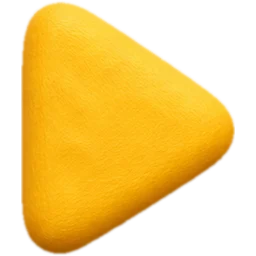
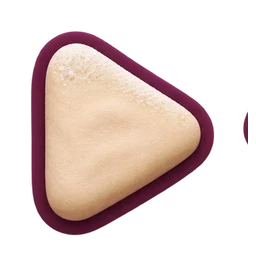
Yeni düğme seti: hap ve yuvarlak düğmeler, simgeler, joker düğmesi, rozet, pencere gövdesi
Claude-Session: https://claude.ai/code/session_013YjY38wA9HkTsRWqx1GxrD

diff --git a/www/sw.js b/www/sw.js
@@ -1,6 +1,6 @@
 // Çevrimdışı: önbellekten anında aç, arkada güncelle (stale-while-revalidate).
 // Yeni dosya eklenince F listesine girer (robot www/ ile listeyi karşılaştırır: tools/hakem.cjs "sw.liste").
-const C = 'hamur-v79', F = ['./', 'index.html', 'style.css', 'i18n.js', 'ses.js', 'olcum.js', 'ads.js', 'shop.js', 'app.js', 'game.js', 'ekran.js', 'acilis.js', 'bolumler.js', 'rules/cekirdek.js', 'rules/cozucu.js', 'font/baloo-latin-ext.woff2', 'font/baloo-latin.woff2', 'font/titan-latin-ext.woff2', 'font/titan-latin.woff2', 'img/ac-kirmizi.webp', 'img/ac-mavi.webp', 'img/ac-mor.webp', 'img/ac-sari.webp', 'img/ac-turuncu.webp', 'img/ac-un-atan.webp', 'img/ac-un-yiyen.webp', 'img/ac-yesil.webp', 'img/acilis-grup.webp', 'img/acilis.webp', 'img/ada-sag.webp', 'img/ada-sol.webp', 'img/ada.webp', 'img/akrep.webp', 'img/ayarlar.webp', 'img/bastan.webp', 'img/blok-b.webp', 'img/blok-g.webp', 'img/blok-krem.webp', 'img/blok-o.webp', 'img/blok-p.webp', 'img/blok-r.webp', 'img/blok-y.webp', 'img/blok.webp', 'img/bulut-1.webp', 'img/bulut-2.webp', 'img/bulut-3.webp', 'img/bulut-4.webp', 'img/bulut-5.webp', 'img/bulut-6.webp', 'img/bulut-seti.webp', 'img/canta.webp', 'img/damgalar.webp', 'img/doku.webp', 'img/duraklat.webp', 'img/duvar.webp', 'img/el.webp', 'img/figur-1.webp', 'img/figur-10.webp', 'img/figur-11.webp', 'img/figur-12.webp', 'img/figur-2.webp', 'img/figur-3.webp', 'img/figur-4.webp', 'img/figur-5.webp', 'img/figur-6.webp', 'img/figur-7.webp', 'img/figur-8.webp', 'img/figur-9.webp', 'img/geri.webp', 'img/girdap.webp', 'img/gok-2.webp', 'img/gok-derin.webp', 'img/gok.webp', 'img/gok2.webp', 'img/gunluk.webp', 'img/hamur-dilim.webp', 'img/hamur-serit.webp', 'img/hap-kirmizi.webp', 'img/hap-mavi.webp', 'img/hap-mor.webp', 'img/hap-sari.webp', 'img/hap-turuncu.webp', 'img/hap-yesil.webp', 'img/hucre-2.webp', 'img/hucre.webp', 'img/ikon-192.png', 'img/ikon-512.png', 'img/kadran.webp', 'img/kahraman.webp', 'img/kalp-eriyor.webp', 'img/kalp.webp', 'img/kapat.webp', 'img/kar-1.webp', 'img/kar-2.webp', 'img/kar-3-kare.webp', 'img/kar-3.webp', 'img/kar-4-kare.webp', 'img/kar-4.webp', 'img/kar-5.webp', 'img/kar-6.webp', 'img/kat-orta.webp', 'img/kat-uzak.webp', 'img/kat-yakin.webp', 'img/kayip-sure.webp', 'img/kayip-yapisma.webp', 'img/kazanc.webp', 'img/kilit.webp', 'img/klaket.webp', 'img/kurabiye-bos.webp', 'img/kurabiye-kilitli.webp', 'img/kurabiye-siradaki.webp', 'img/kurabiye-tamam.webp', 'img/logo.webp', 'img/m-alev.webp', 'img/m-canta.webp', 'img/m-hediye.webp', 'img/m-kalpler.webp', 'img/m-reklamsiz.webp', 'img/m-sandik.webp', 'img/makas-kapali.webp', 'img/makas.webp', 'img/n-ay.webp', 'img/n-cirpici-1.webp', 'img/n-cirpici-2.webp', 'img/n-donut.webp', 'img/n-ev.webp', 'img/n-merdiven.webp', 'img/n-oklava.webp', 'img/n-seker.webp', 'img/oynat.webp', 'img/panel.webp', 'img/parcacik.webp', 'img/saat.webp', 'img/serit.webp', 'img/ses.webp', 'img/sessiz.webp', 'img/sus-1.webp', 'img/sus-10.webp', 'img/sus-2.webp', 'img/sus-3.webp', 'img/sus-4.webp', 'img/sus-5.webp', 'img/sus-6.webp', 'img/sus-7.webp', 'img/sus-8.webp', 'img/sus-9.webp', 'img/tarif.webp', 'img/tepsi-2.webp', 'img/tepsi.webp', 'img/top-kirmizi.webp', 'img/top-mor.webp', 'img/top-sari.webp', 'img/top-yesil.webp', 'img/yildiz-bos.webp', 'img/yildiz-yuz.webp', 'img/yildiz.webp', 'img/yol.webp', 'img/yuz-dikey.webp', 'img/yuzler.webp', ...['de', 'es', 'pt-BR', 'fr'].map(l => `lang/${l}.js`), 'ses/kayip.mp3', 'ses/kazan.mp3', 'ses/kes.mp3', 'ses/muzik.mp3', 'ses/otur.mp3', 'ses/yapis.mp3', 'manifest.json'];
+const C = 'hamur-v80', F = ['./', 'index.html', 'style.css', 'i18n.js', 'ses.js', 'olcum.js', 'ads.js', 'shop.js', 'app.js', 'game.js', 'ekran.js', 'acilis.js', 'bolumler.js', 'rules/cekirdek.js', 'rules/cozucu.js', 'font/baloo-latin-ext.woff2', 'font/baloo-latin.woff2', 'font/titan-latin-ext.woff2', 'font/titan-latin.woff2', 'img/ac-kirmizi.webp', 'img/ac-mavi.webp', 'img/ac-mor.webp', 'img/ac-sari.webp', 'img/ac-turuncu.webp', 'img/ac-un-atan.webp', 'img/ac-un-yiyen.webp', 'img/ac-yesil.webp', 'img/acilis-grup.webp', 'img/acilis.webp', 'img/ada-sag.webp', 'img/ada-sol.webp', 'img/ada.webp', 'img/akrep.webp', 'img/ayarlar.webp', 'img/bastan.webp', 'img/blok-b.webp', 'img/blok-g.webp', 'img/blok-krem.webp', 'img/blok-o.webp', 'img/blok-p.webp', 'img/blok-r.webp', 'img/blok-y.webp', 'img/blok.webp', 'img/bulut-1.webp', 'img/bulut-2.webp', 'img/bulut-3.webp', 'img/bulut-4.webp', 'img/bulut-5.webp', 'img/bulut-6.webp', 'img/bulut-seti.webp', 'img/canta.webp', 'img/damgalar.webp', 'img/doku.webp', 'img/duraklat.webp', 'img/duvar.webp', 'img/el.webp', 'img/figur-1.webp', 'img/figur-10.webp', 'img/figur-11.webp', 'img/figur-12.webp', 'img/figur-2.webp', 'img/figur-3.webp', 'img/figur-4.webp', 'img/figur-5.webp', 'img/figur-6.webp', 'img/figur-7.webp', 'img/figur-8.webp', 'img/figur-9.webp', 'img/geri.webp', 'img/girdap.webp', 'img/gok-2.webp', 'img/gok-derin.webp', 'img/gok.webp', 'img/gok2.webp', 'img/guc.webp', 'img/gunluk.webp', 'img/hamur-dilim.webp', 'img/hamur-serit.webp', 'img/hap-kirmizi.webp', 'img/hap-mavi.webp', 'img/hap-mor.webp', 'img/hap-sari.webp', 'img/hap-turuncu.webp', 'img/hap-yesil.webp', 'img/hucre-2.webp', 'img/hucre.webp', 'img/ikon-192.png', 'img/ikon-512.png', 'img/kadran.webp', 'img/kahraman.webp', 'img/kalp-eriyor.webp', 'img/kalp.webp', 'img/kapat.webp', 'img/kar-1.webp', 'img/kar-2.webp', 'img/kar-3-kare.webp', 'img/kar-3.webp', 'img/kar-4-kare.webp', 'img/kar-4.webp', 'img/kar-5.webp', 'img/kar-6.webp', 'img/kat-orta.webp', 'img/kat-uzak.webp', 'img/kat-yakin.webp', 'img/kayip-sure.webp', 'img/kayip-yapisma.webp', 'img/kazanc.webp', 'img/kilit.webp', 'img/klaket.webp', 'img/kurabiye-bos.webp', 'img/kurabiye-kilitli.webp', 'img/kurabiye-siradaki.webp', 'img/kurabiye-tamam.webp', 'img/logo.webp', 'img/m-alev.webp', 'img/m-canta.webp', 'img/m-hediye.webp', 'img/m-kalpler.webp', 'img/m-reklamsiz.webp', 'img/m-sandik.webp', 'img/makas-kapali.webp', 'img/makas.webp', 'img/n-ay.webp', 'img/n-cirpici-1.webp', 'img/n-cirpici-2.webp', 'img/n-donut.webp', 'img/n-ev.webp', 'img/n-merdiven.webp', 'img/n-oklava.webp', 'img/n-seker.webp', 'img/oynat.webp', 'img/panel.webp', 'img/parcacik.webp', 'img/pencere.webp', 'img/rozet.webp', 'img/saat.webp', 'img/serit.webp', 'img/ses.webp', 'img/sessiz.webp', 'img/sus-1.webp', 'img/sus-10.webp', 'img/sus-2.webp', 'img/sus-3.webp', 'img/sus-4.webp', 'img/sus-5.webp', 'img/sus-6.webp', 'img/sus-7.webp', 'img/sus-8.webp', 'img/sus-9.webp', 'img/tarif.webp', 'img/tepsi-2.webp', 'img/tepsi.webp', 'img/top-kirmizi.webp', 'img/top-mavi.webp', 'img/top-mor.webp', 'img/top-sari.webp', 'img/top-yesil.webp', 'img/yildiz-bos.webp', 'img/yildiz-yuz.webp', 'img/yildiz.webp', 'img/yol.webp', 'img/yuz-dikey.webp', 'img/yuzler.webp', ...['de', 'es', 'pt-BR', 'fr'].map(l => `lang/${l}.js`), 'ses/kayip.mp3', 'ses/kazan.mp3', 'ses/kes.mp3', 'ses/muzik.mp3', 'ses/otur.mp3', 'ses/yapis.mp3', 'manifest.json'];
 self.addEventListener('install', e => e.waitUntil(caches.open(C).then(c => c.addAll(F)).then(() => self.skipWaiting())));
 self.addEventListener('activate', e => e.waitUntil(caches.keys().then(k => Promise.all(k.filter(x => x !== C).map(x => caches.delete(x)))).then(() => self.clients.claim())));
 self.addEventListener('fetch', e => {

diff --git a/www/style.css b/www/style.css
@@ -860,3 +860,30 @@ html{background:#c9a8ee}
 /* ana ekran da derin gökyüzünde; eski ay-kaşık gizli (yeni gökyüzünde ay var) */
 body.ana-acik{background:#7a5cc4 url(img/gok-derin.webp) center/cover no-repeat}
 body.ana-acik .gok .n-ay{display:none}
+
+/* ================= yeni düğme seti (logoyla aynı dil: tombul hamur, koyu mor arkalık, üstte un) ================= */
+.hap,.go{border-image-slice:86 150 fill;border-width:17px 30px;border-image-width:17px 30px;filter:drop-shadow(0 4px 3px rgba(60,25,100,.3))}
+.hap.buyuk,#bOyna{border-width:22px 38px;border-image-width:22px 38px}
+.ana-dugmeler .hap{border-width:15px 26px;border-image-width:15px 26px}
+.urun .fiyat{border-width:13px 22px;border-image-width:13px 22px}
+.hap,.go{padding-bottom:5px}                      /* üst yüz, alttaki kalınlık yüzünden biraz yukarıda */
+.top i{width:54%;height:54%;margin-bottom:9%}
+.top .sola{width:44%;height:44%;margin-right:4%;margin-bottom:9%}
+#bMagaza i{width:54%;height:54%}
+.top.kucuk i{margin:0}
+#yolGeri,#tepsiGeri,#magazaGeri,#bCik{background-image:url(img/top-mor.webp)}
+/* joker düğmeleri: krem kare hamur düğme; rozet mor hamur */
+.guc:not(.tarif)::before{background:url(img/guc.webp) center/100% 100% no-repeat}
+.guc:not(.tarif)::after{display:none}
+.guc:not(.tarif){width:62px;height:62px}
+.guc:not(.tarif) i{width:30px;height:30px;margin-bottom:5px}
+.guc:not(.tarif) small{bottom:9px}
+.guc:not(.tarif):active{transform:translateY(2px) scale(.95)}
+.guc b{background:url(img/rozet.webp) center/100% 100% no-repeat;min-width:24px;height:24px;line-height:22px;right:-7px;top:-8px;padding:0;text-align:center}
+.guc:disabled b{background:url(img/rozet.webp) center/100% 100% no-repeat;filter:grayscale(1)}
+/* pencere gövdesi: hamur panel */
+.card,.panel{border:solid transparent;border-width:46px 40px 50px;border-image:url(img/pencere.webp) 112 100 118 fill / 46px 40px 50px stretch;background:none;box-shadow:none;border-radius:0;padding:0 2px 2px;filter:drop-shadow(0 16px 22px rgba(35,10,75,.45))}
+.card .kapat,.panel .kapat{right:-44px;top:-50px}
+.card p,.panel .secenek,.card .secenek{background:rgba(90,40,120,.3)}
+.top{width:58px;height:58px}
+#sAna .ust .top{width:60px;height:60px}

diff --git a/www/index.html b/www/index.html
@@ -23,7 +23,7 @@
 <!-- Gökyüzü: geçiş kodla, bulutlar ayrı katmanda yavaşça kayar (hareket azaltmada sabit) -->
 <div class="gok" aria-hidden="true"><i class="b1"></i><i class="b2"></i><i class="b3"></i><i class="b4"></i><i class="b5"></i><i class="b6"></i><b class="n-ay"></b><b class="n-c1"></b><b class="n-c2"></b><b class="n-merdiven"></b><b class="n-ev"></b><b class="n-seker"></b><b class="n-donut"></b><b class="n-oklava"></b></div>
 <section class="ekran" id="sAna" hidden>
-  <header class="ust"><span></span><button class="top yesil" id="bMagaza" type="button" aria-label="Mağaza" data-en-label="Shop"><i style="background-image:url(img/m-canta.webp)"></i></button><button class="top" id="bAyar" type="button" aria-label="Ayarlar" data-en-label="Settings"><i style="background-image:url(img/ayarlar.webp)"></i></button></header>
+  <header class="ust"><span></span><button class="top yesil" id="bMagaza" type="button" aria-label="Mağaza" data-en-label="Shop"><i style="background-image:url(img/canta.webp)"></i></button><button class="top" id="bAyar" type="button" aria-label="Ayarlar" data-en-label="Settings"><i style="background-image:url(img/ayarlar.webp)"></i></button></header>
   <div class="can" id="canKutu" role="status"><i aria-hidden="true"></i><b id="canN">5</b><small id="canT"></small></div>
   <img class="ada" src="img/ada.webp" alt="" aria-hidden="true">
   <div class="baslik-yeri"><img class="logo" src="img/logo.webp" alt="Dough!" width="640" height="283"></div>
